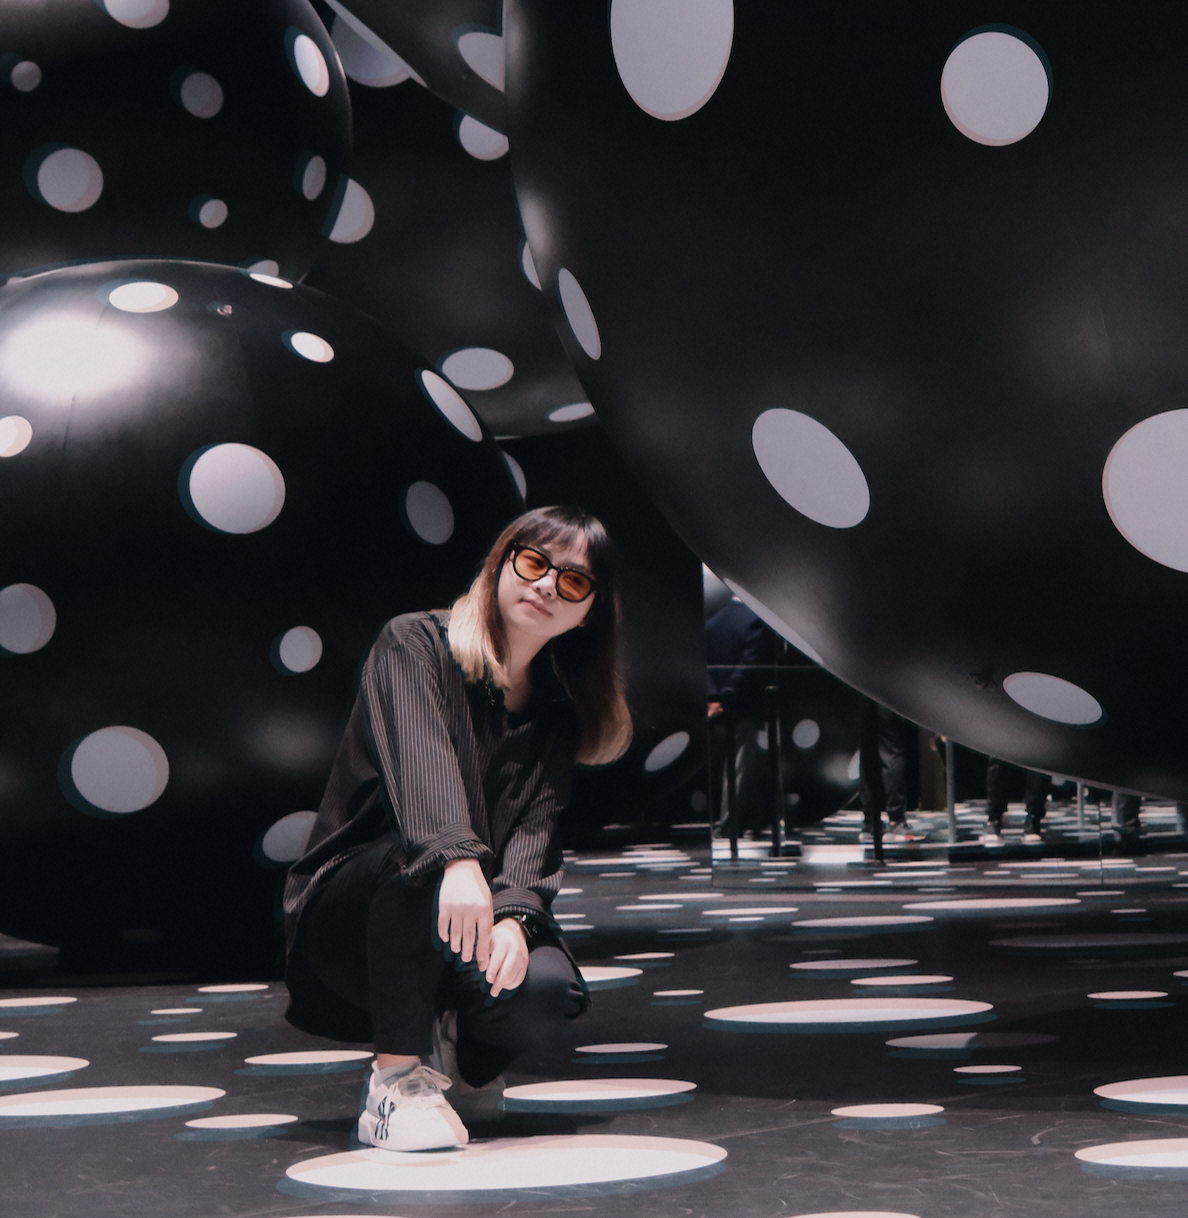
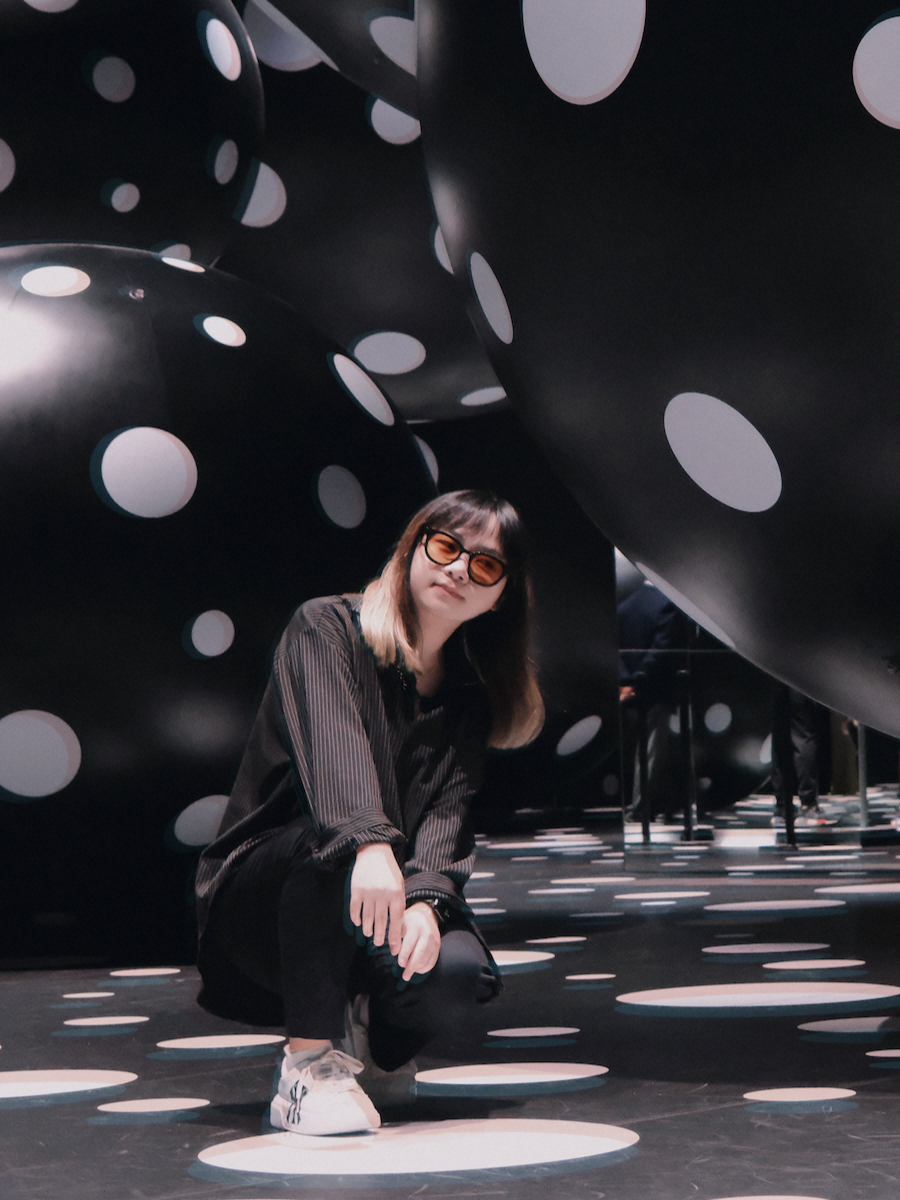
update

diff --git a/index.html b/index.html
@@ -23,7 +23,7 @@
 <h1>Ya Wang</h1>
 </div>
 <table class="imgtable"><tr><td>
-<img src="photos/self.png" alt="alt text" width="185px" height="239px" />&nbsp;</td>
+<img src="photos/self.png" alt="alt text" width="900px" height="1200px" />&nbsp;</td>
 <td align="left"><p><a href="https://ariusewy.github.io">Ya Wang</a> <br />
 First Year PhD Student in <a href="https://hkust.edu.hk/">The Hong Kong University of Science and Technology</a><br /> 
 Hong Kong SAR,China <br />
